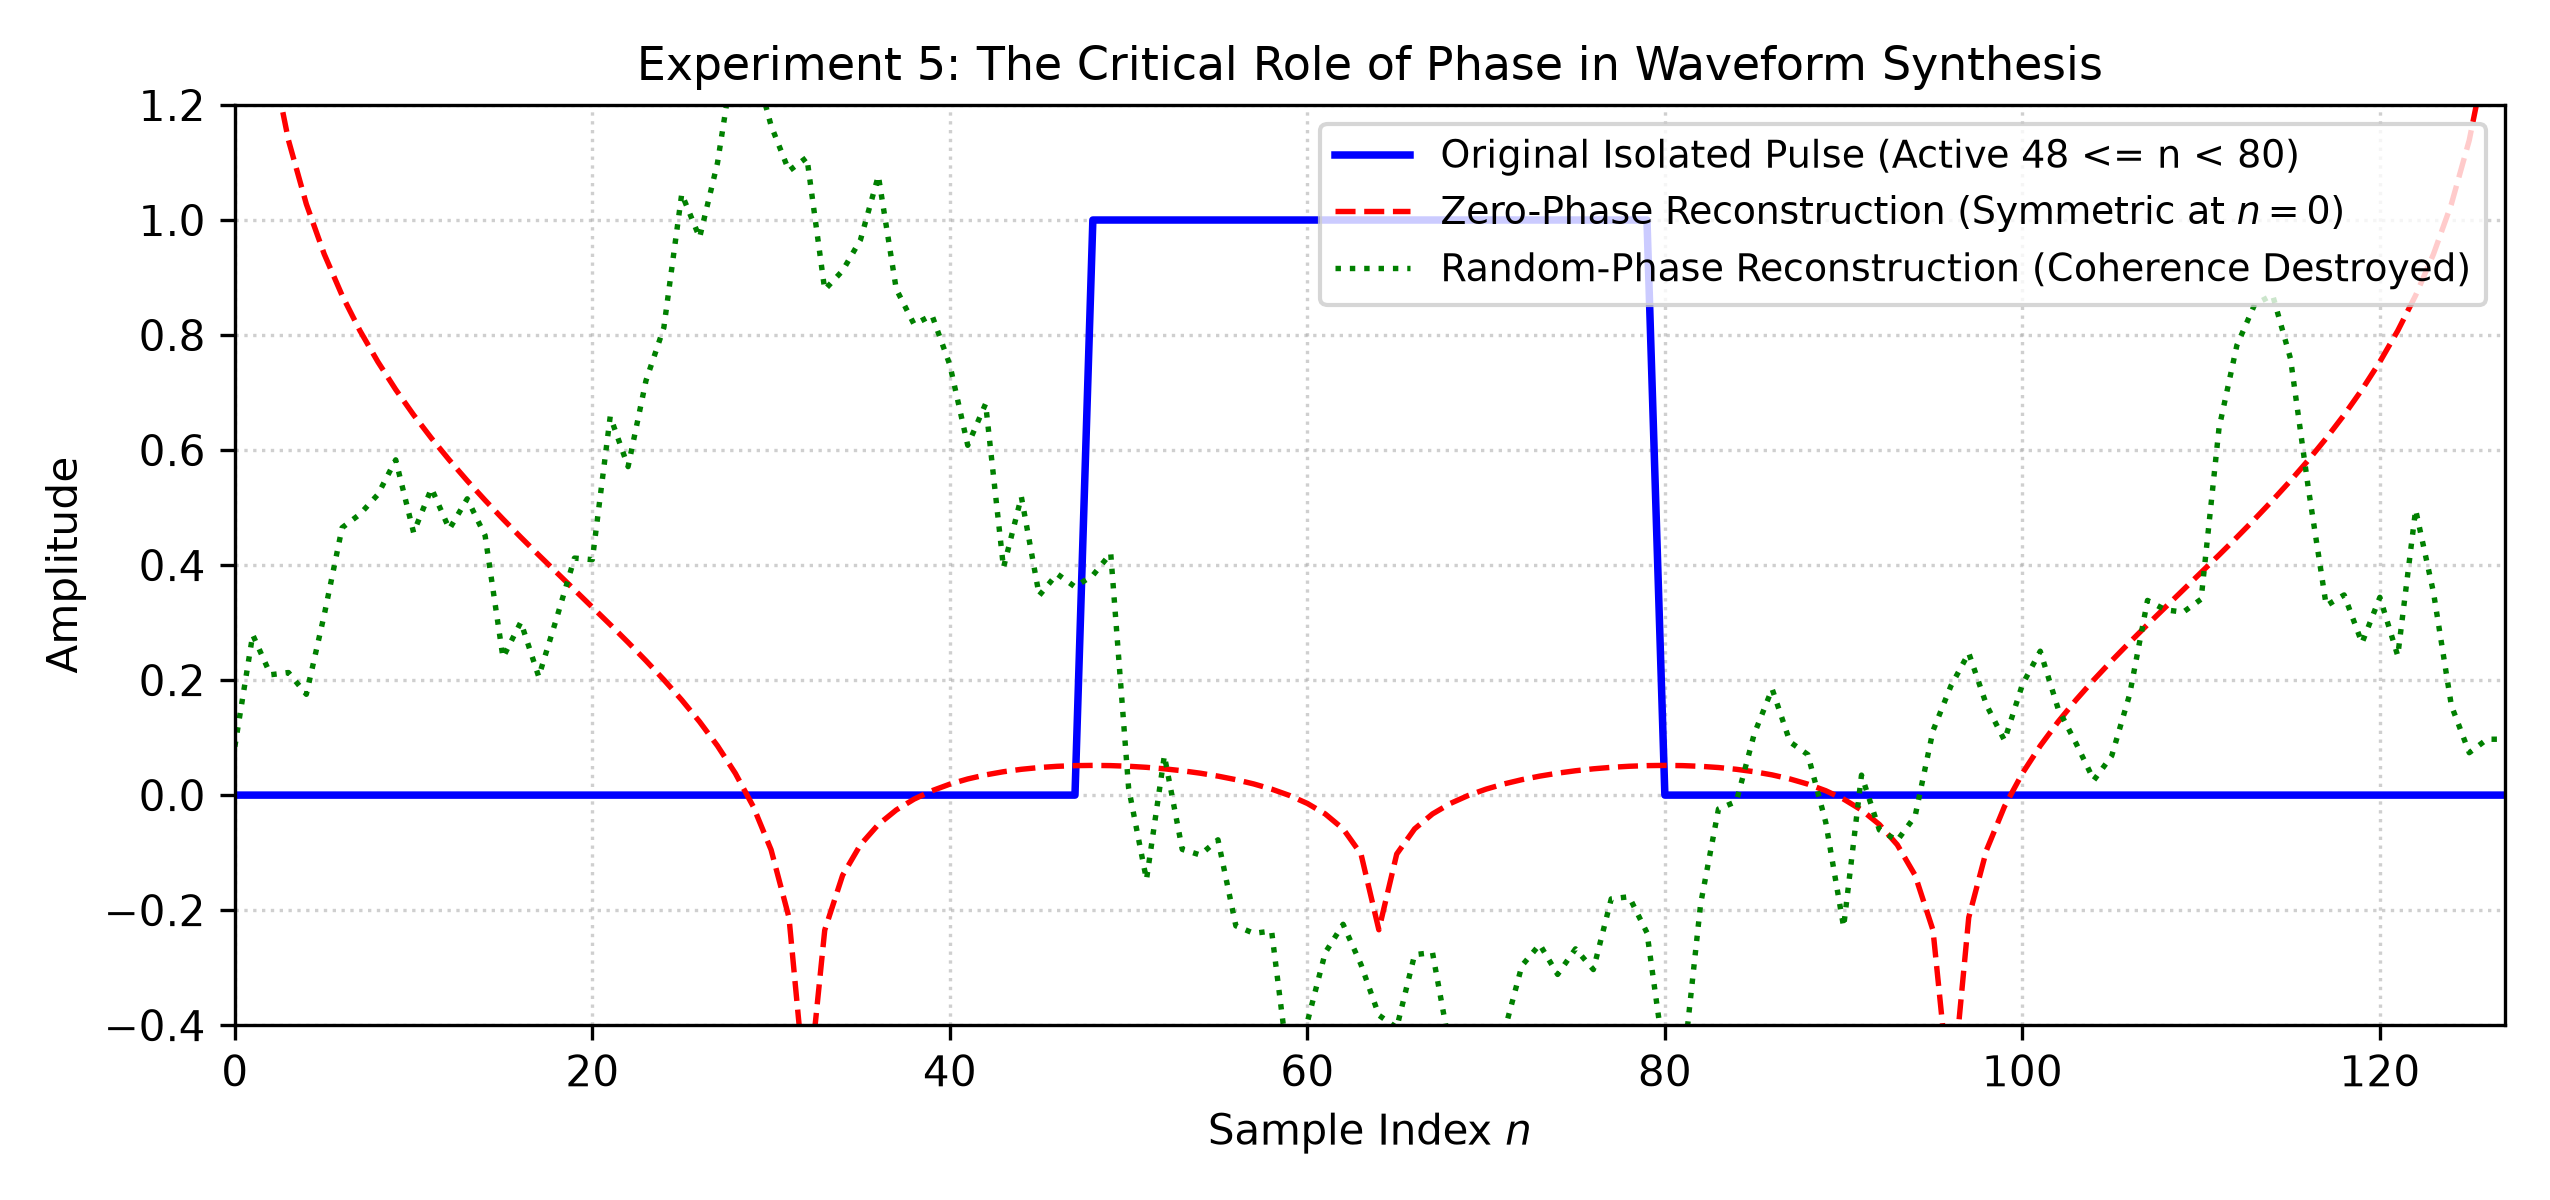
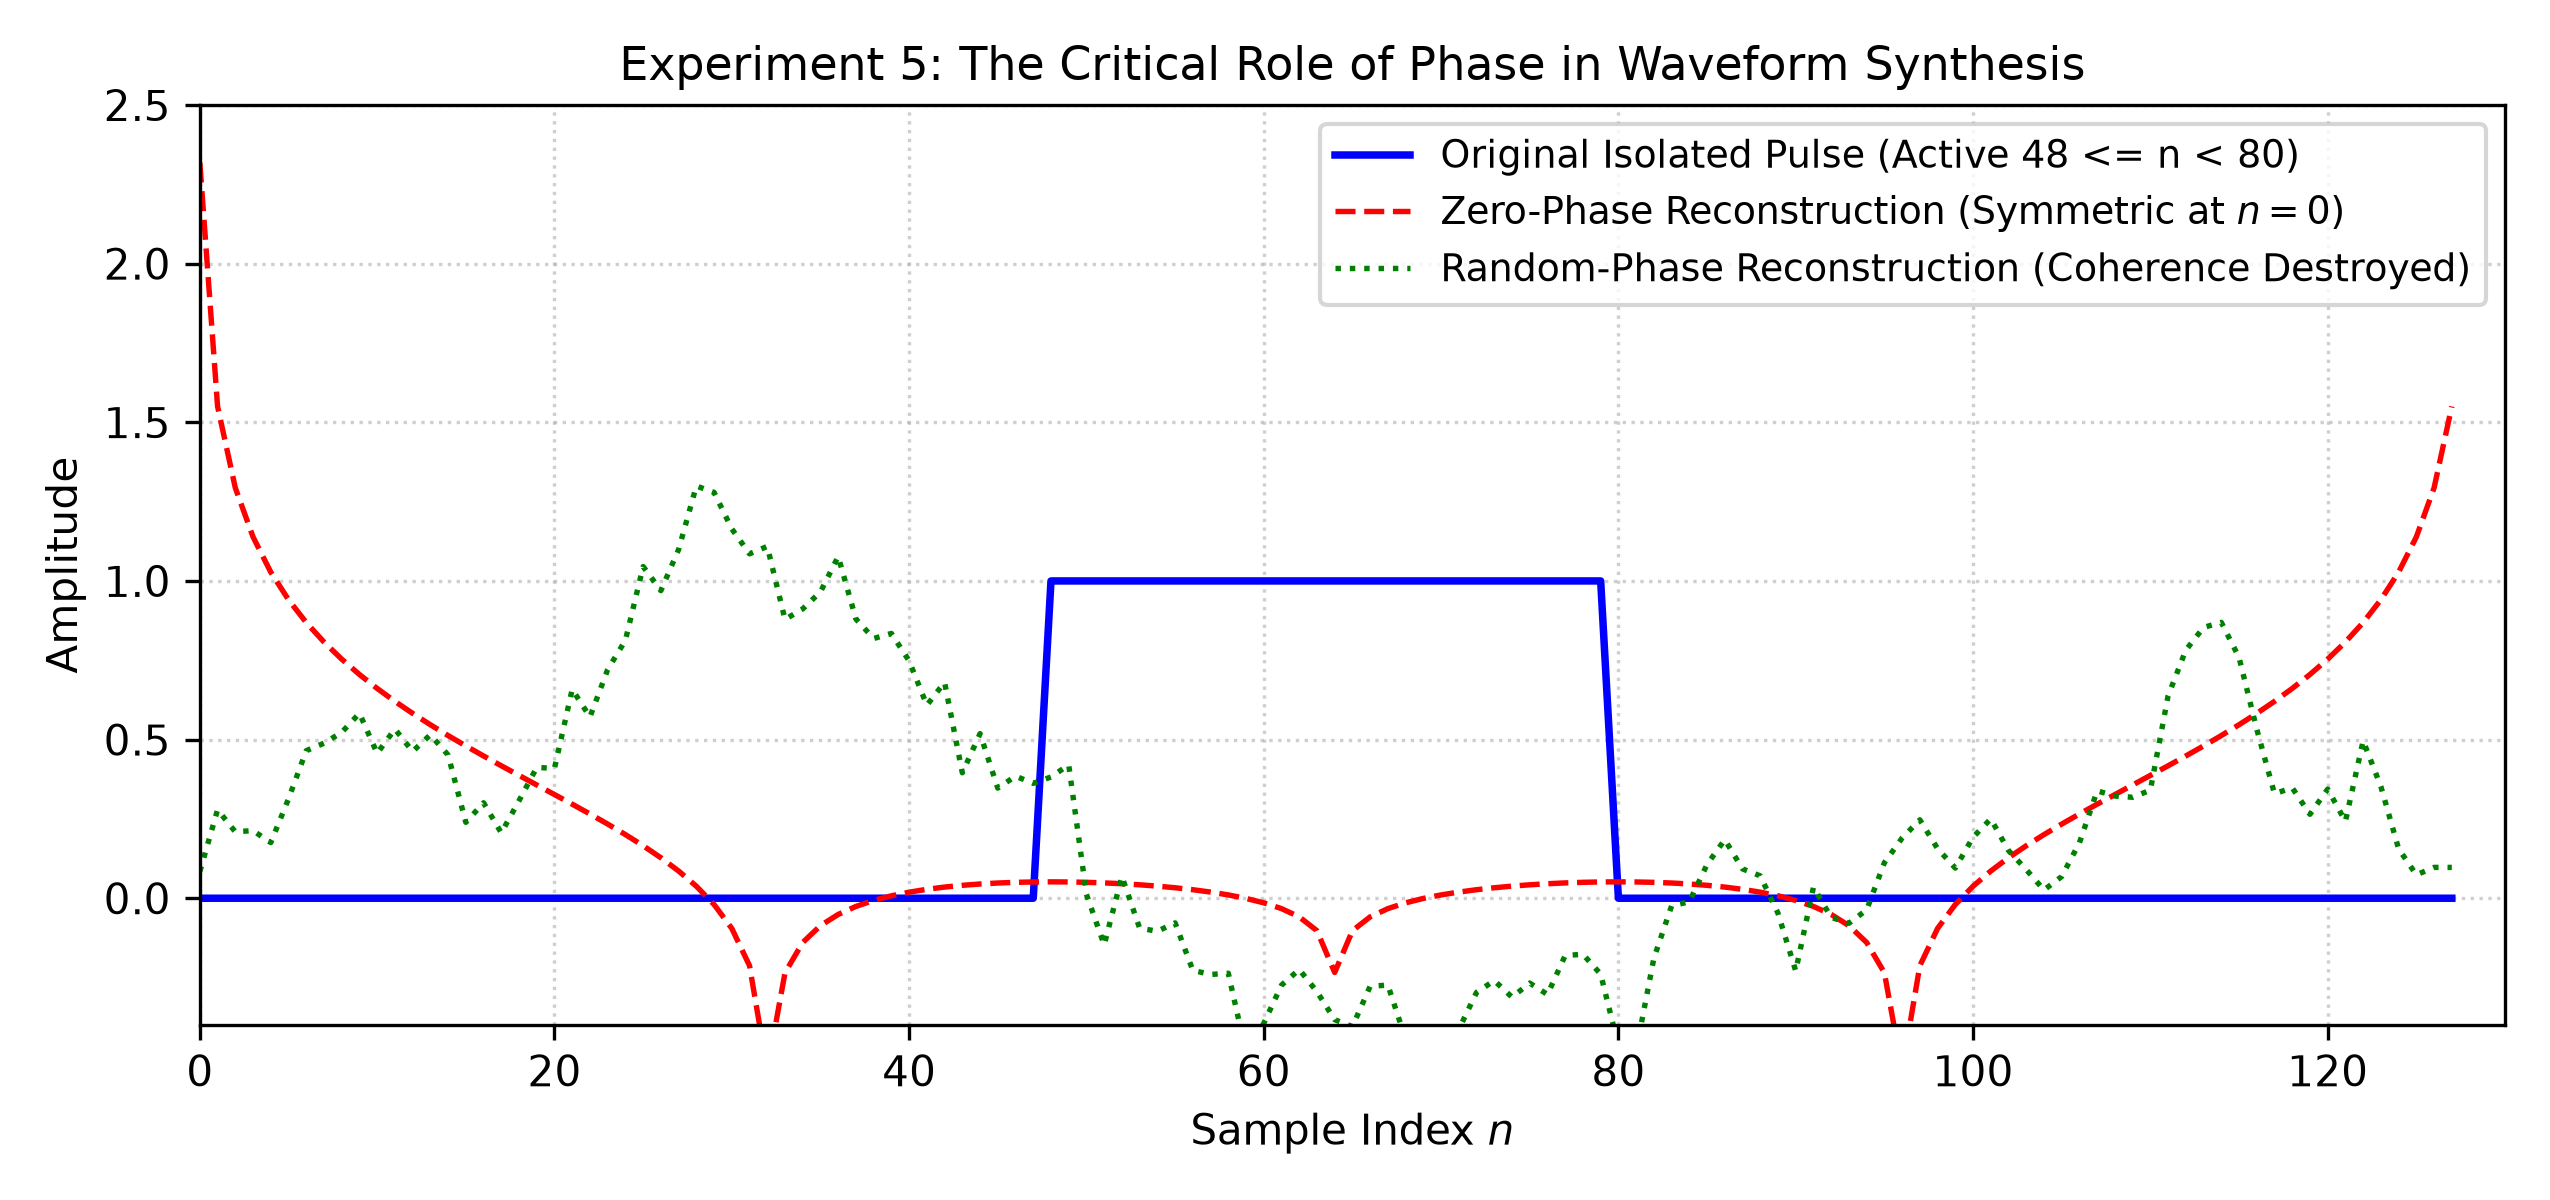
Modified Image size of exp5_phase_scrambling.png

diff --git a/src/dsp_assgn1_codes/exp5_phase_scrambling.py b/src/dsp_assgn1_codes/exp5_phase_scrambling.py
@@ -57,8 +57,8 @@ ax.set_title(
 )
 ax.set_xlabel('Sample Index $n$', fontsize=10)
 ax.set_ylabel('Amplitude', fontsize=10)
-ax.set_xlim(0, 127)
-ax.set_ylim(-0.4, 1.2)
+ax.set_xlim(0, 130)
+ax.set_ylim(-0.4, 2.5)
 ax.grid(True, linestyle=':', alpha=0.6)
 ax.legend(loc='upper right', fontsize=9)
 
